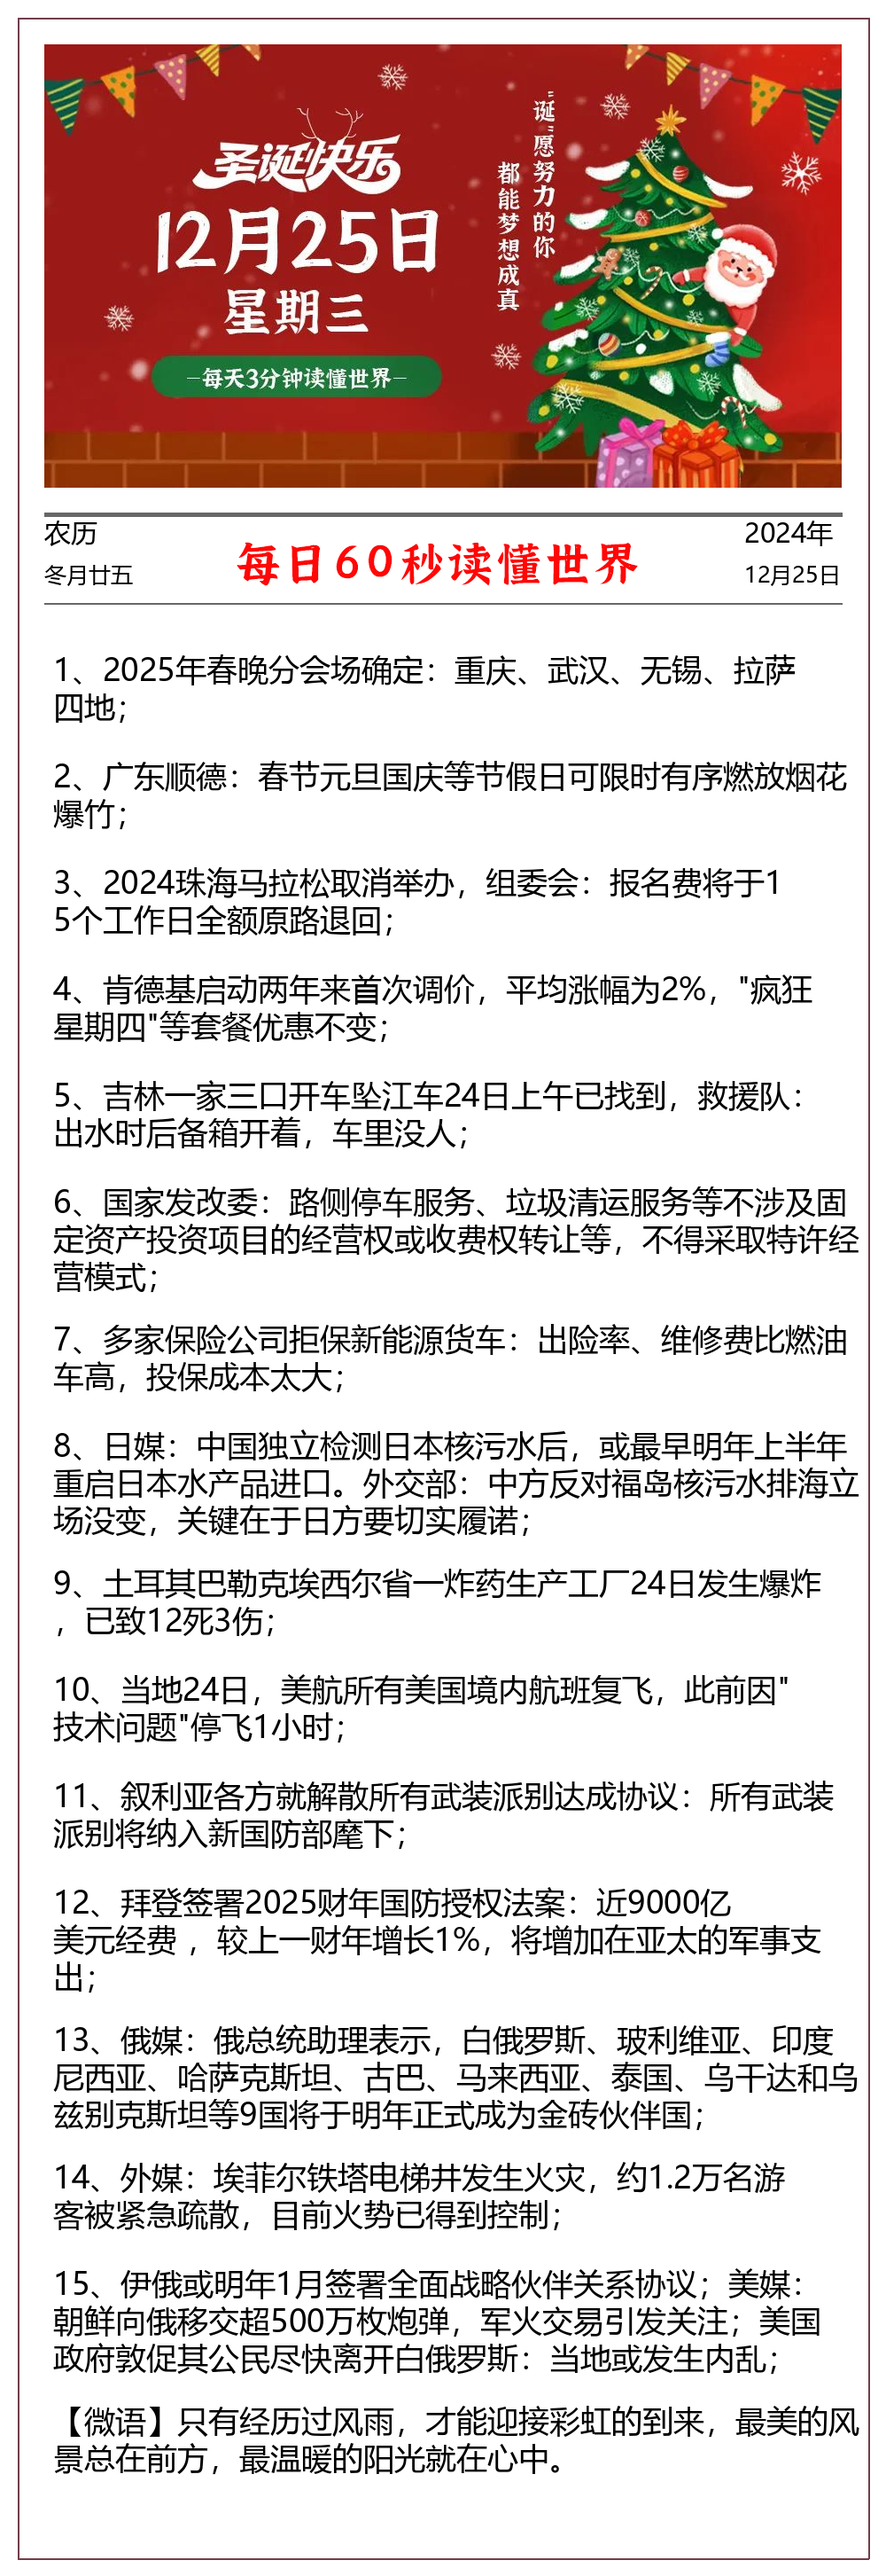
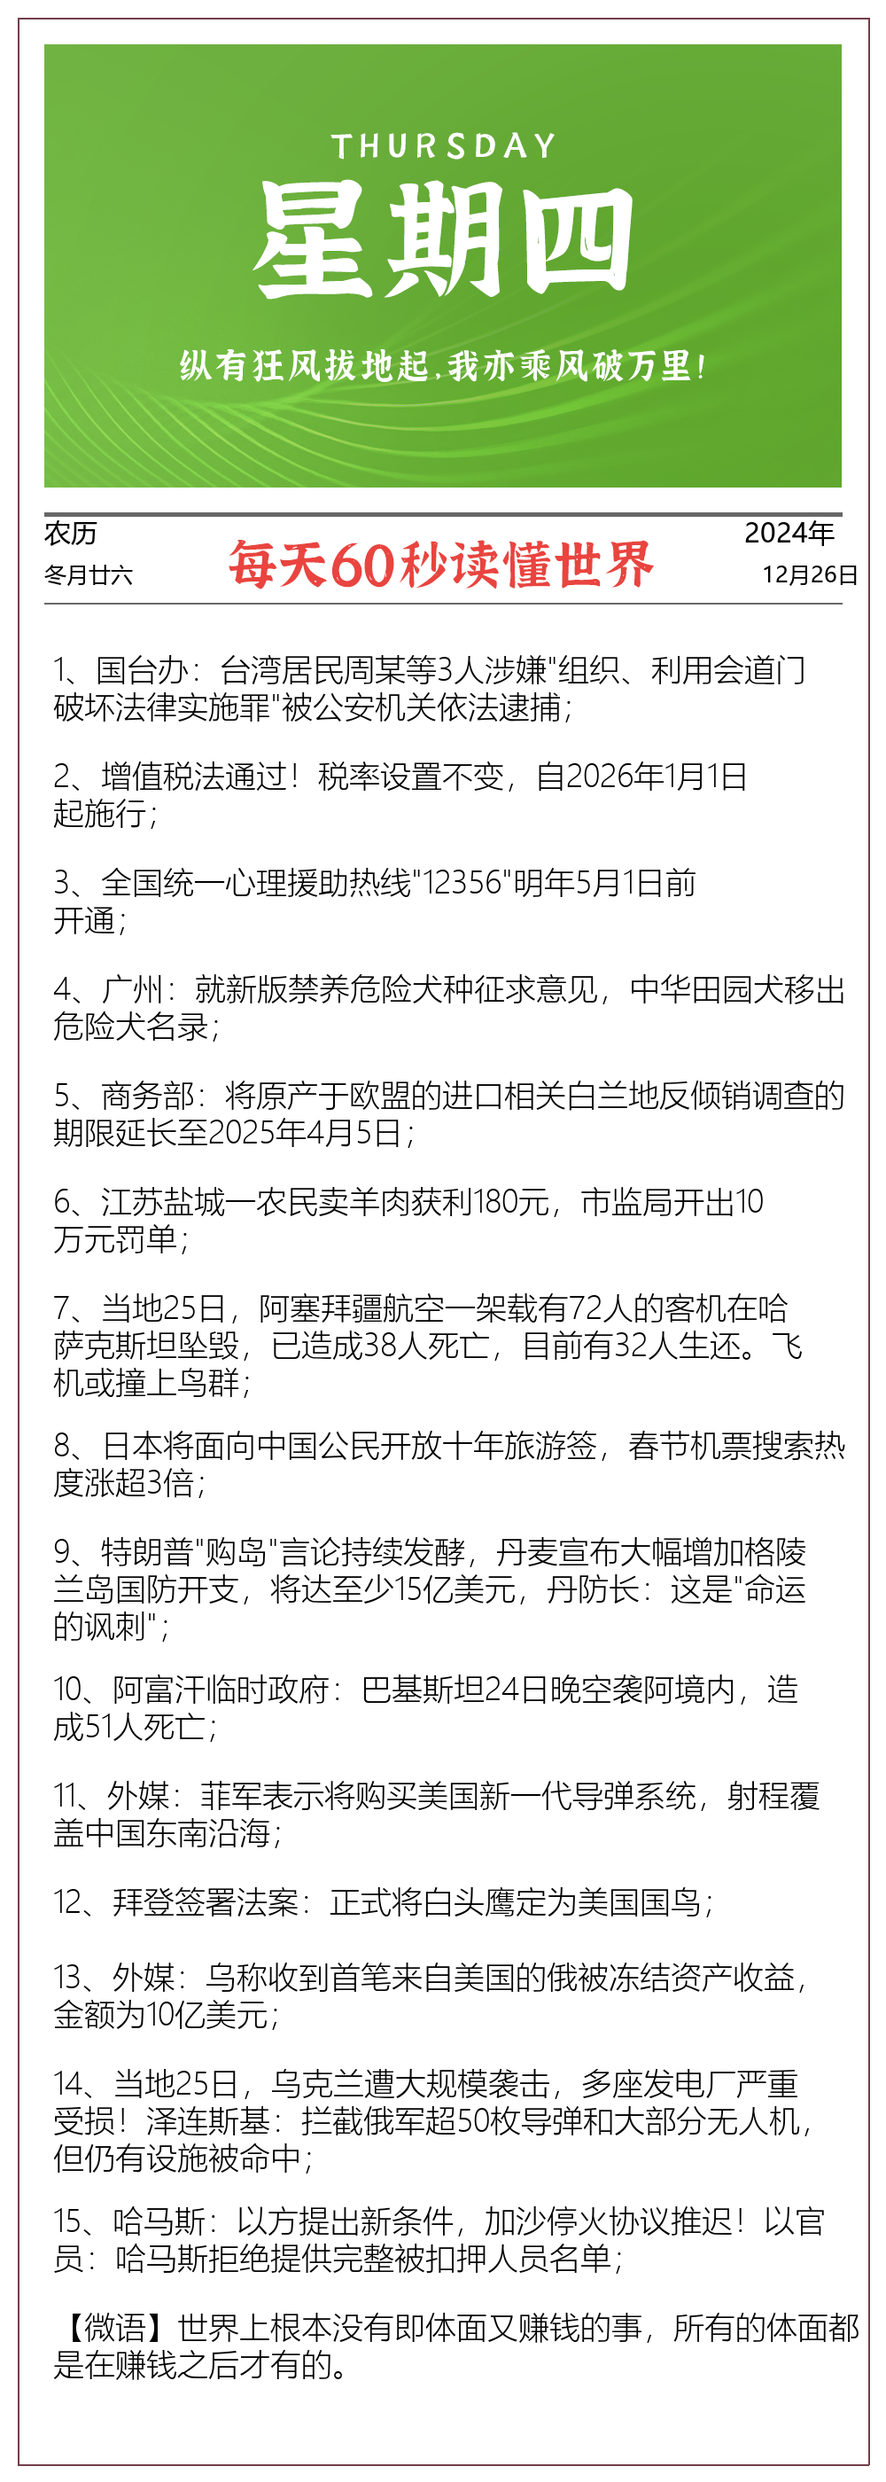
Update the "60s-for-news" picture

diff --git a/content/zh/posts/zaobao.md b/content/zh/posts/zaobao.md
@@ -1,6 +1,6 @@
 +++
 title = "每日60秒早报"
-date = 2024-12-25T04:31:44+08:00
+date = 2024-12-26T04:32:33+08:00
 weight = 1
 +++
 
